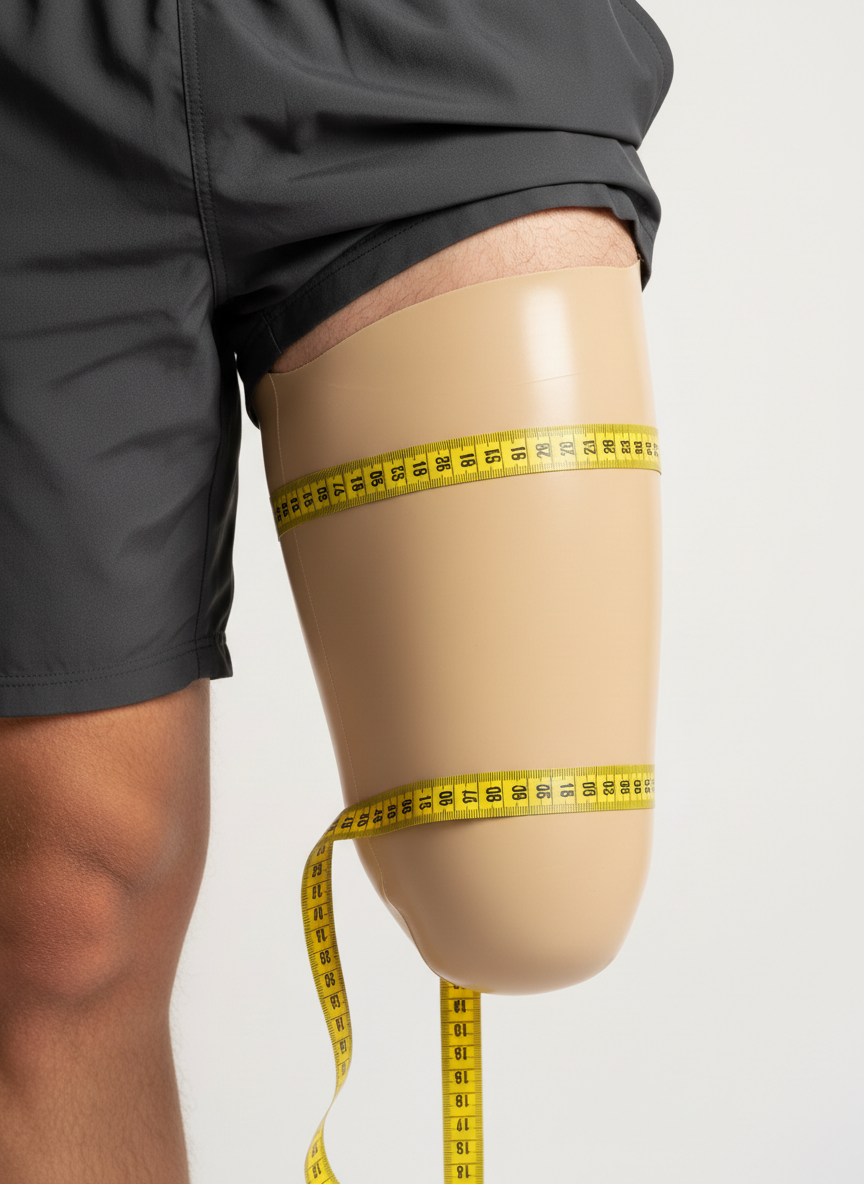
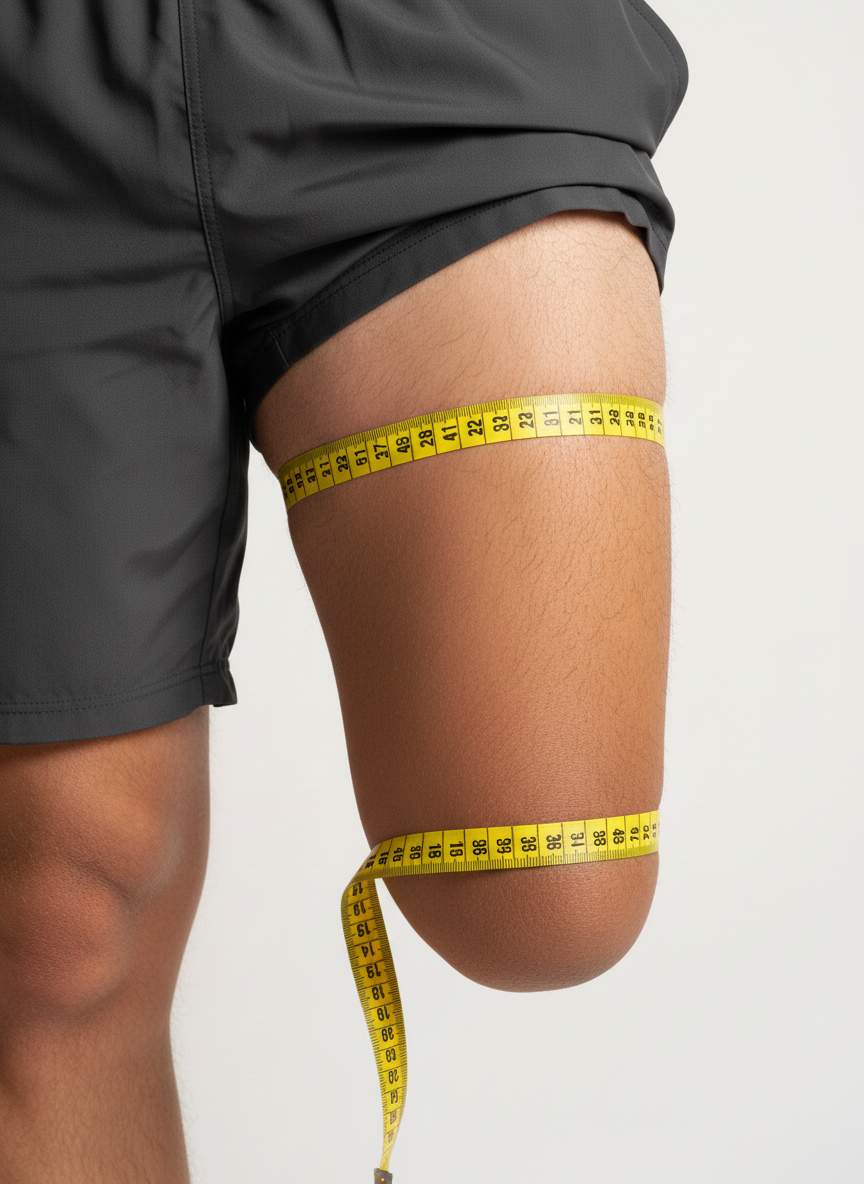
Sizing images: bare human skin stumps with measuring tape
Regenerated all 3 sizing images to show bare residual limb skin
(not prosthetic liners) with yellow measuring tape baked in:
- AK: standing, bare thigh stump, 2 tape loops
- BK: sitting, bare below-knee stump, 2 tape loops
- Circumference: sitting, bare stump, 1 tape loop

diff --git a/src/components/SizingGuide.jsx b/src/components/SizingGuide.jsx
@@ -141,11 +141,11 @@ function MeasurementHero({ chartData }) {
   // Callout label positions (% from top of image) — aligned with tape loops in photos
   const callouts = isDual
     ? [
-        { label: 'PROXIMAL', sublabel: '30 cm from end', top: 36 },
-        { label: 'DISTAL', sublabel: '4 cm from end', top: 68 },
+        { label: 'PROXIMAL', sublabel: '30 cm from end', top: 34 },
+        { label: 'DISTAL', sublabel: '4 cm from end', top: 64 },
       ]
     : [
-        { label: 'MEASURE HERE', sublabel: '6 cm from end', top: 52 },
+        { label: 'MEASURE HERE', sublabel: '6 cm from end', top: 48 },
       ];
 
   return (
